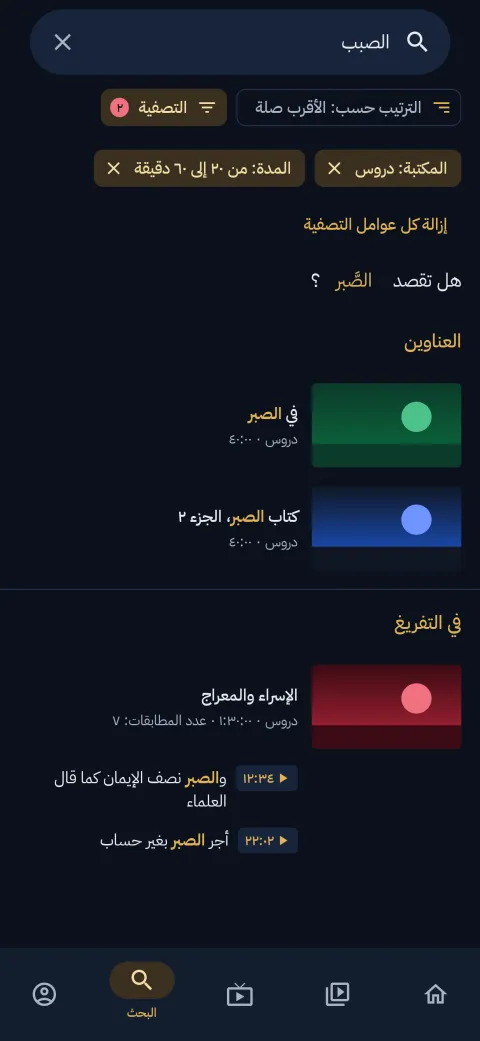
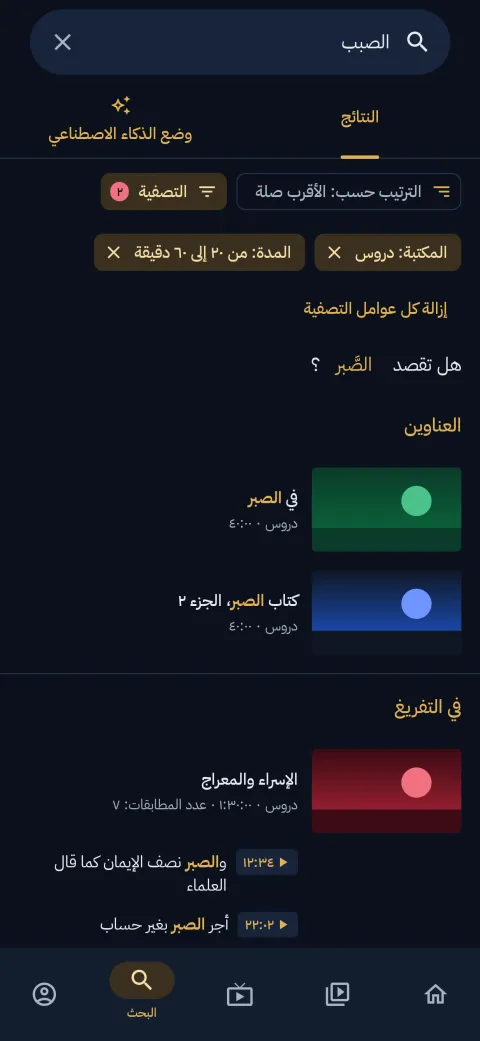
docs(49.14): maktaba.dev and the help pages describe AI mode's tab on Android, Android TV and the desktop

diff --git a/web/src/help/content/ar/android-apps.md b/web/src/help/content/ar/android-apps.md
@@ -6,7 +6,7 @@
 
 هناك تطبيقان:
 
-- **Maktaba Player** (المشغّل): شاهد جهازك الرئيسي. فيه **الرئيسية** و**المكتبات** و**البث المباشر** (فقط حين يُسمح لك بمشاهدة قناة) و**البحث** و**الملف الشخصي**: شريط في الأسفل على الهاتف، وشريط جانبي أو درج على الشاشة الأعرض. ويبقى صوت الفيديو والشاشة مطفأة، والذهاب إلى الشاشة الرئيسية أثناء التشغيل يفتحه في صورة داخل صورة.
+- **Maktaba Player** (المشغّل): شاهد جهازك الرئيسي. فيه **الرئيسية** و**المكتبات** و**البث المباشر** (فقط حين يُسمح لك بمشاهدة قناة) و**البحث** و**الملف الشخصي**: شريط في الأسفل على الهاتف، وشريط جانبي أو درج على الشاشة الأعرض. ويبقى صوت الفيديو والشاشة مطفأة، والذهاب إلى الشاشة الرئيسية أثناء التشغيل يفتحه في صورة داخل صورة. وللبحث تبويبان: **النتائج**، و**وضع الذكاء الاصطناعي** الذي يجيب عن سؤال من مقاطع مكتبتك، ومع كل جملة شريحة لكل مقطع تستشهد به تشغّل المقطع من تلك اللحظة (انظر [وضع الذكاء الاصطناعي](/help/search#ai-mode)).
 - **Maktaba Remote** (الإدارة عن بُعد): أدِر جهازك الرئيسي من هاتفك. يفتح على **ما يحتاج إلى انتباه** (مع **إعادة المحاولة** و**إعادة محاولة الكل**)، ثم **الطابور** (إيقاف مرحلة أو كل شيء مؤقتًا واستئنافه)، و**المكتبات** (الفحص)، و**الأجهزة** (إنهاء العمل الحالي دون أخذ عمل جديد). لا يستخدمه إلا مدراء الجهاز الرئيسي، والجهاز الرئيسي يرفض غيرهم.
 
 كل منهما تطبيق واحد للهواتف والأجهزة القابلة للطي والأجهزة اللوحية، ويحتاج أندرويد 8 أو أحدث. تتبع الشاشة النافذة لا الجهاز:

diff --git a/web/src/help/content/ar/desktop-player.md b/web/src/help/content/ar/desktop-player.md
@@ -56,6 +56,8 @@
 
 **Ctrl+F** (أو **/**) يفتح البحث من أي مكان. اكتب: تُقترح الكلمات التي بحثت عنها من قبل (**↑** و**↓** للاختيار، و**Enter** للبحث). وتأتي النتائج في مجموعتين: **العناوين**، و**في التفريغ**، أي الكلمات التي قيلت في فيديو، ومع كل مقطع **التشغيل من** لحظته. و**عرض المزيد** يأتي بالنتائج التالية. وحين يكون الحقل فارغًا ترى **عمليات البحث الأخيرة**: أزل واحدة، أو **مسح الكل**. وفي النافذة العريضة يعرض اختيار نتيجة صفحتها بجانب النتائج.
 
+وفوق النتائج تبويبان: **النتائج** و**وضع الذكاء الاصطناعي**. يجيب **وضع الذكاء الاصطناعي** عن سؤال من مقاطع مكتبتك، ولا يسأل الجهاز الرئيسي إلا حين تفتحه أو تسأل منه. تظهر المقاطع التي قرأها فورًا، ثم تتبعها الإجابة جملةً جملة، ومع كل جملة شريحة لكل مقطع تستشهد به: انقرها (أو انتقل إليها بـ**Tab** واضغط **Enter**) لتشغيل المقطع من تلك اللحظة. اكتب سؤالًا تاليًا في الحقل تحت الإجابة واضغط **Enter**. وحين لا يكون في الجهاز الرئيسي نموذج لغة يقول التبويب ذلك، مع زرّين يفتحان الإعداد وصفحة المساعدة في المتصفح (انظر [وضع الذكاء الاصطناعي](/help/search#ai-mode)).
+
 ### المشاهدة {#watch}
 
 يُستأنف الفيديو من حيث توقّفت، إلا إن أنهيته أو كنت قرب نهايته؛ و**التشغيل من البداية** يبدؤه من جديد. وأدوات التحكم تحت الصورة: التشغيل والإيقاف المؤقت، والرجوع والتقديم 10 ثوانٍ، والشريط (مع علامة عند كل فصل)، ومستوى الصوت، و**الترجمة**، و**الصوت**، و**الجودة**، وملء الشاشة.

diff --git a/web/src/help/content/ar/android-tv.md b/web/src/help/content/ar/android-tv.md
@@ -6,6 +6,8 @@
 
 مكتبة لـAndroid TV تطبيق للمشاهدة من بعيد على Android TV وGoogle TV (أندرويد 9 أو أحدث). فيه **الرئيسية** و**المكتبات** و**البحث** و**البث المباشر** (فقط حين يُسمح لك بمشاهدة قناة) و**الحساب**، كل ذلك بأسهم جهاز التحكم وزرّه الأوسط. وفي **البث المباشر** **ما يُعرض الآن** (كل قناة مع ما يُعرض عليها) و**الدليل**؛ اختر قناة لتشاهدها مباشرة. يظهر في صف التطبيقات على الشاشة الرئيسية للتلفزيون باسم **مكتبة**.
 
+وفي **البحث** تبويب ثانٍ بجانب **النتائج** هو **وضع الذكاء الاصطناعي**: يجيب عن سؤال من مقاطع مكتبتك. تأتي المقاطع التي قرأها أولًا في صف، ثم كل جملة من الإجابة ومعها صف المقاطع التي تستشهد بها. اضغط الزر الأوسط على أحدها لتشغيل المقطع من تلك اللحظة. واطرح سؤالًا تاليًا من الحقل تحت الإجابة. وحين لا يكون في الجهاز الرئيسي نموذج لغة يقول التبويب ذلك ويعطي عنوان صفحة المساعدة (انظر [وضع الذكاء الاصطناعي](/help/search#ai-mode)).
+
 ## طريقة الاستخدام {#how-to-use}
 
 ### احصل على التطبيق {#get-the-app}

diff --git a/web/src/help/content/en/desktop-player.md b/web/src/help/content/en/desktop-player.md
@@ -56,6 +56,8 @@ A series' page shows its seasons and episodes, **Continue watching** (the first 
 
 **Ctrl+F** (or **/**) opens Search from anywhere. Type: the words you searched before are suggested (**Up** and **Down** choose, **Enter** searches). Results come in two groups: **Titles**, and **In the transcript**, the words said in a video, each passage with **Play from** its moment. **Show more** gives the next results. With the field empty you see your **Recent searches**: remove one, or **Clear all**. On a wide window, choosing a result shows its page beside the results.
 
+Above the results, **Results** and **AI mode** are two tabs. **AI mode** answers a question from your library's passages, and asks the home only once you open it or ask from it. The passages it read show at once; the answer follows sentence by sentence, each with a chip per passage it cites: click it (or **Tab** to it and press **Enter**) to play the video from that moment. Type a follow-up in the field under the answer and press **Enter**. When the home has no language model, the tab says so, with buttons that open the setting and the help page in your browser (see [AI mode](/help/search#ai-mode)).
+
 ### Watch {#watch}
 
 A video resumes where you left it, unless you finished it or were nearly at the end; **Play from start** starts it over. The controls are under the picture: play and pause, back and forward 10 seconds, the bar (with a mark at each chapter), the volume, **Subtitles**, **Audio**, **Quality** and full screen.

diff --git a/web/src/help/content/en/android-apps.md b/web/src/help/content/en/android-apps.md
@@ -6,7 +6,7 @@ Maktaba Player and Maktaba Remote bring your home to Android phones, foldables a
 
 There are two apps:
 
-- **Maktaba Player**: watch your home. It has **Home**, **Libraries**, **Live TV** (only when you may watch a channel), **Search** and **Profile**: a bar at the bottom on a phone, a rail or a drawer on a wider screen. A video keeps its sound with the screen off, and going Home while it plays opens it in picture in picture.
+- **Maktaba Player**: watch your home. It has **Home**, **Libraries**, **Live TV** (only when you may watch a channel), **Search** and **Profile**: a bar at the bottom on a phone, a rail or a drawer on a wider screen. A video keeps its sound with the screen off, and going Home while it plays opens it in picture in picture. Search has two tabs: **Results**, and **AI mode**, which answers a question from your library's passages, each sentence with a chip per passage it cites that plays the video from that moment (see [AI mode](/help/search#ai-mode)).
 - **Maktaba Remote**: run your home from your phone. It opens on **Needs attention** (with **Retry** and **Retry all**), then **Queue** (pause and resume a stage or everything), **Libraries** (scan) and **Machines** (drain). Only the home's admins can use it; the home refuses everyone else.
 
 Each app is one app for phones, foldables and tablets, and needs Android 8 or later. The screen follows the window, not the device:

diff --git a/web/src/help/content/en/android-tv.md b/web/src/help/content/en/android-tv.md
@@ -6,6 +6,8 @@ Maktaba for Android TV and Google TV: your home's libraries on the big screen, d
 
 Maktaba for Android TV is a ten-foot app for Android TV and Google TV (Android 9 or later). It has **Home**, **Libraries**, **Search**, **Live TV** (only when you may watch a channel) and **Account**, all driven with the remote's arrows and its centre button. **Live TV** has **On now** (every channel with what is on) and **Guide**; choose a channel to watch it live. It shows on the TV's home row as **Maktaba**.
 
+In **Search**, **AI mode** is a second tab beside **Results**: it answers a question from your library's passages. The passages it read come first, as a row; then each sentence of the answer, with a row of the passages it cites. Press the centre button on one to play the video from that moment. Ask a follow-up from the field under the answer. When the home has no language model, the tab says so and gives the address of the help page (see [AI mode](/help/search#ai-mode)).
+
 ## How to use it {#how-to-use}
 
 ### Get the app {#get-the-app}
